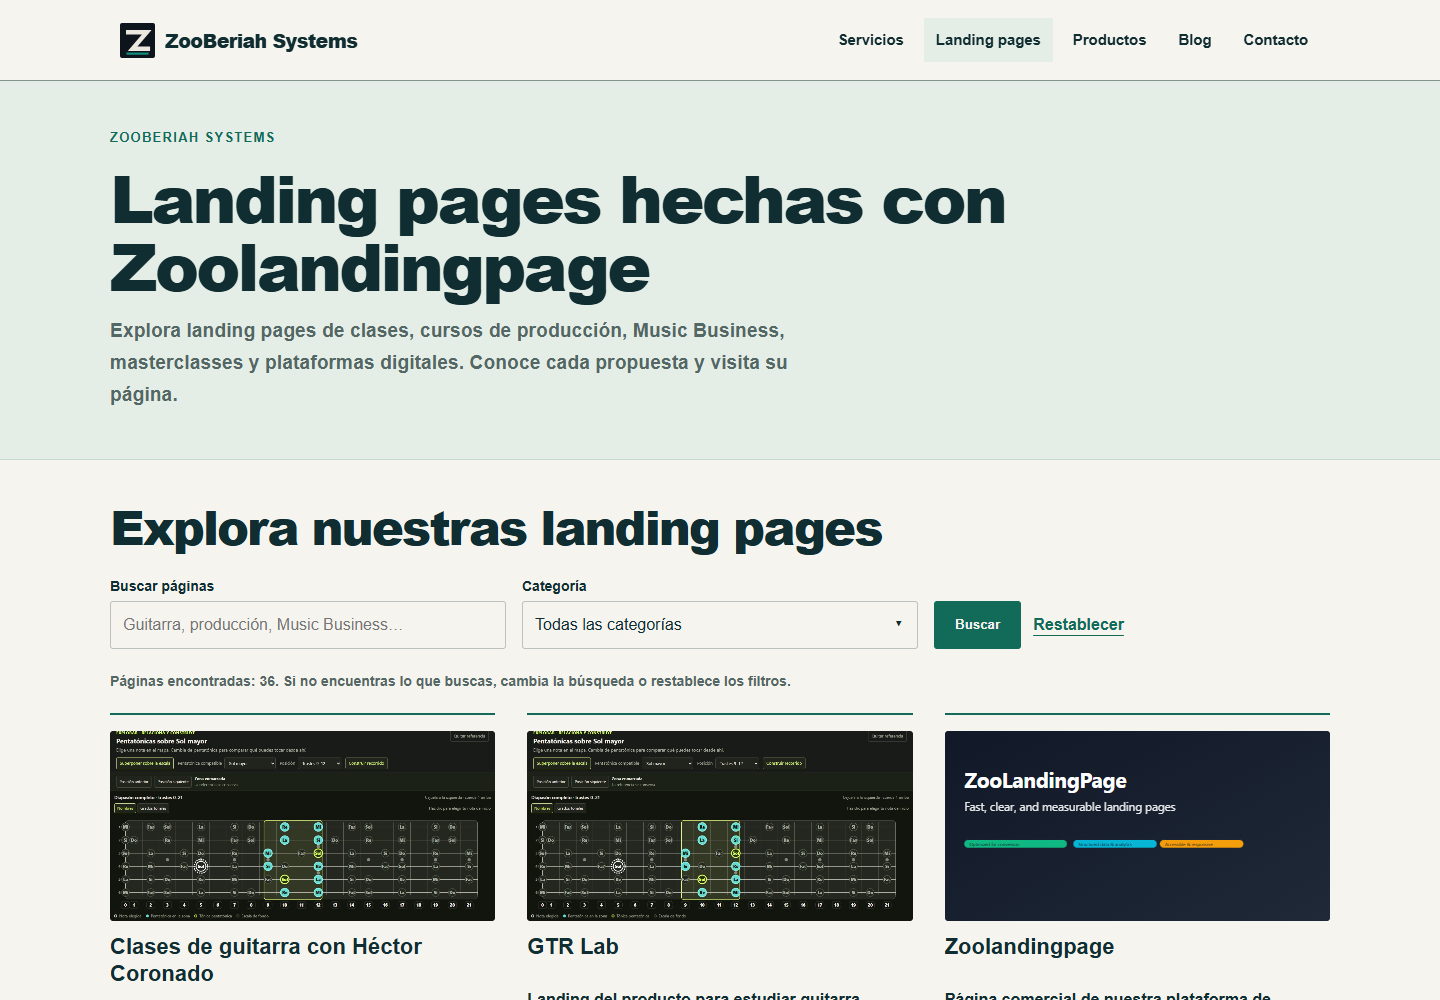
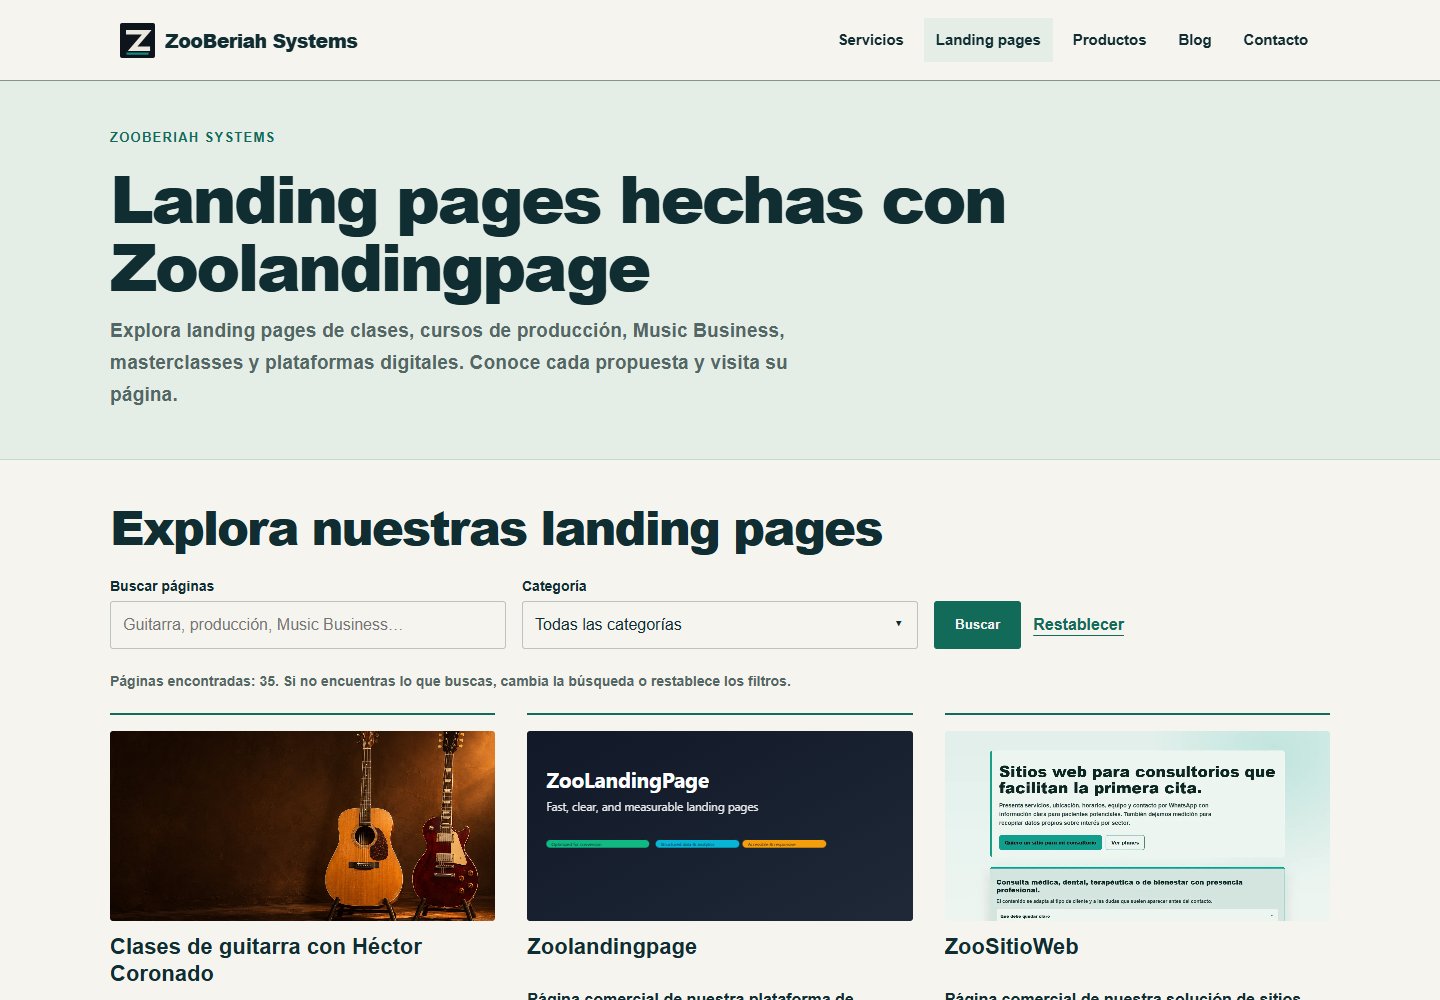
fix(catalogs): keep GTR Lab in products and use guitar cover

diff --git a/changelog/2026-11.md b/changelog/2026-11.md
@@ -10,6 +10,7 @@ The ZooBeriah Systems blog lists and renders the public Zoositioweb articles thr
 - Added three app presentations and a searchable initial gallery of four owned landing pages, with separate canonical URLs, social metadata, and collection structured data.
 - Added direct service-content links for websites, online stores, business systems, and the landing page gallery; the complete remote inventory is not included automatically.
 - Expanded the selected gallery to 36 pages by adding the electronic music, sound design, audiovisual production, and Music Business courses, plus 28 masterclasses.
+- Kept GTR Lab exclusively in Products and reused the guitar landing's acoustic/electric cover image for its gallery card; final selection contains 35 landing pages.
 - Authorized production promotion of this selection through the protected `dev -> test -> main` workflow, with validation in TEST before production.
 
 ## 2026-11-17

diff --git a/README.md b/README.md
@@ -43,4 +43,4 @@ The production site uses the apex as canonical and redirects `www`. Analytics us
 
 Catalog releases use the protected `dev -> test -> main` promotion workflow. Confirm the deployed version in GitHub Actions and on the live site.
 
-`/productos` lists RoadMap2U, Despensa Lista, and GTR Lab. The `/landingpages` selection contains 36 pages: guitar classes, GTR Lab, Zoolandingpage, ZooSitioWeb, four music courses including Music Business, and 28 masterclasses. Other discovered pages remain outside the runtime payload until selected for the catalog.
+`/productos` lists RoadMap2U, Despensa Lista, and GTR Lab. The `/landingpages` selection contains 35 pages: guitar classes, Zoolandingpage, ZooSitioWeb, four music courses including Music Business, and 28 masterclasses. GTR Lab appears in the product catalogue. Other discovered pages remain outside the runtime payload until selected for the catalog.
